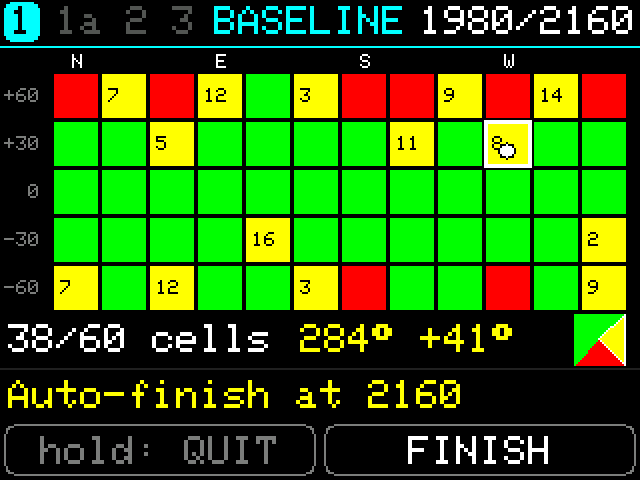
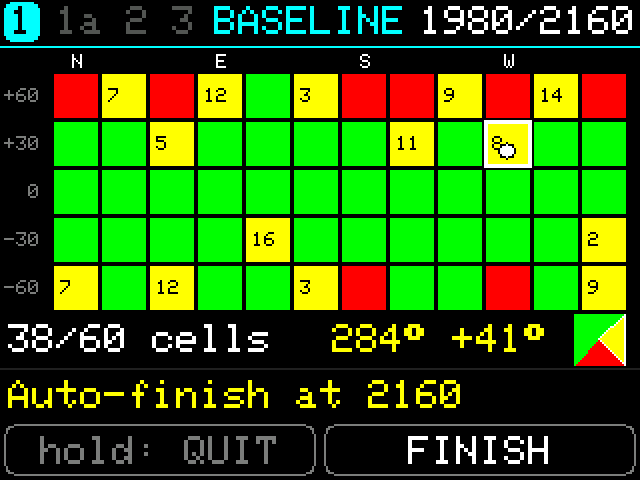
Cal screen mock: match the build (readout x, Finishing, Installed mounted, Can't start, Not installed)

Changed region(s): [[0.4688, 0.6562, 0.8438, 0.75]]

diff --git a/tools/cal_screen_mock/cal-screens.html b/tools/cal_screen_mock/cal-screens.html
@@ -541,7 +541,7 @@ const SCREENS = {
     grid5(t, ["RYRYGYRRYRYR", "GGYGGGGYGYGG", "GGGGGGGGGGGG", "GGGGYGGGGGGY", "YGYGGYRGGRGY"],
           [1, 9], 284, 41, [7, 12, 3, 9, 14, 5, 11, 8, 16, 2]);
     t.text(4, 162, "38/60 cells", 2, C.WHITE);
-    t.text(150, 162, "284° +41°", 2, C.YELLOW);
+    t.text(166, 162, "284° +41°", 2, C.YELLOW);
     rollWidget(t, 287, 157, 26, [C.GREEN, C.YELLOW, C.RED, C.GREEN], 1);
     frameEnd(t, [["Auto-finish at 2160", C.YELLOW]], QUIT, FINISH, f);
   } },
@@ -551,7 +551,7 @@ const SCREENS = {
     grid5(t, ["..G..Y...R..", ".G..G...G...", "....G...Y...", "..G...G..G..", ".R.Y..G....."],
           [2, 8], 255, -8, [11, 6, 4]);
     t.text(4, 162, "5 cells left", 2, C.WHITE);
-    t.text(160, 162, "255° -8°", 2, C.YELLOW);
+    t.text(166, 162, "255° -8°", 2, C.YELLOW);
     rollWidget(t, 287, 157, 26, [C.GREEN, C.RED, C.RED, C.YELLOW], 0);
     frameEnd(t, [["Fill red & yellow cells", C.YELLOW]], QUIT, FINISH, f);
   } },
@@ -646,6 +646,26 @@ const SCREENS = {
     frameEnd(t, [["Next: ", C.GRAY], ["sync at tern.local", C.WHITE]], BLANK, OK);
   } },
 
+  mountedFinishing: { stage: "2", draw(t) {
+    header(t, "2", "16/36");
+    grid3(t, ["GGRGRRGRGRRR", "GGGGRGGRGGGR", "RRGRRRGRRRRR"], [1, 4], true, 130, 1);
+    horizon(t, 4, 100, 80, 1, -2, 10, 2, true);
+    t.text(92, 102, "MOTION", 2, C.GRAY);
+    bar(t, 170, 101, 146, 18, 0, C.RED, "still", C.GREEN);
+    t.text(92, 126, "HOLD", 2, C.GRAY);
+    bar(t, 170, 125, 146, 18, 0, C.CYAN);
+    t.text(92, 152, "130° P+01 R-02", 2, C.WHITE);
+    frameEnd(t, [["Finishing...", C.GREEN]],
+             { label: "hold: QUIT", style: "dim" }, { label: "FINISH", style: "dim" });
+  } },
+
+  installedMount: { stage: "2", draw(t) {
+    header(t, "2", "SAVED");
+    t.text(8, 44, "Installed", 3, C.GREEN);
+    t.text(8, 84, "Mounted cal is on.", 2, C.WHITE);
+    frameEnd(t, [["Next: ", C.GRAY], ["3 HEADING", C.WHITE]], BLANK, OK);
+  } },
+
   installedHdg: { stage: "3", draw(t) {
     header(t, "3", "SAVED");
     t.text(8, 44, "Installed", 3, C.GREEN);
@@ -667,6 +687,23 @@ const SCREENS = {
     t.text(8, 84, "Samples are saved", 2, C.WHITE);
     t.text(8, 104, "on the unit.", 2, C.WHITE);
     frameEnd(t, [["Next: ", C.GRAY], ["upload at tern.local", C.WHITE]], BLANK, OK);
+  } },
+
+  cantStart: { stage: "1a", draw(t) {
+    header(t, "1a", "FAILED");
+    t.text(8, 44, "Can't start", 3, C.RED);
+    t.text(8, 84, "No target map -- run", 2, C.GRAY);
+    t.text(8, 104, "Check for updates on", 2, C.GRAY);
+    t.text(8, 124, "tern.local (WiFi).", 2, C.GRAY);
+    frameEnd(t, [["Nothing was collected", C.GRAY]], BLANK, OK);
+  } },
+
+  notInstalled: { stage: "1", draw(t) {
+    header(t, "1", "FAILED");
+    t.text(8, 44, "Not installed", 3, C.RED);
+    t.text(8, 84, "Nothing pending to", 2, C.GRAY);
+    t.text(8, 104, "install", 2, C.GRAY);
+    frameEnd(t, [["Your old cal stays on", C.GRAY]], BLANK, OK);
   } },
 
   failed: { stage: "2", draw(t) {

diff --git a/tools/cal_screen_mock/screens.js b/tools/cal_screen_mock/screens.js
@@ -286,7 +286,7 @@ const SCREENS = {
     grid5(t, ["RYRYGYRRYRYR", "GGYGGGGYGYGG", "GGGGGGGGGGGG", "GGGGYGGGGGGY", "YGYGGYRGGRGY"],
           [1, 9], 284, 41, [7, 12, 3, 9, 14, 5, 11, 8, 16, 2]);
     t.text(4, 162, "38/60 cells", 2, C.WHITE);
-    t.text(150, 162, "284° +41°", 2, C.YELLOW);
+    t.text(166, 162, "284° +41°", 2, C.YELLOW);
     rollWidget(t, 287, 157, 26, [C.GREEN, C.YELLOW, C.RED, C.GREEN], 1);
     frameEnd(t, [["Auto-finish at 2160", C.YELLOW]], QUIT, FINISH, f);
   } },
@@ -296,7 +296,7 @@ const SCREENS = {
     grid5(t, ["..G..Y...R..", ".G..G...G...", "....G...Y...", "..G...G..G..", ".R.Y..G....."],
           [2, 8], 255, -8, [11, 6, 4]);
     t.text(4, 162, "5 cells left", 2, C.WHITE);
-    t.text(160, 162, "255° -8°", 2, C.YELLOW);
+    t.text(166, 162, "255° -8°", 2, C.YELLOW);
     rollWidget(t, 287, 157, 26, [C.GREEN, C.RED, C.RED, C.YELLOW], 0);
     frameEnd(t, [["Fill red & yellow cells", C.YELLOW]], QUIT, FINISH, f);
   } },
@@ -391,6 +391,26 @@ const SCREENS = {
     frameEnd(t, [["Next: ", C.GRAY], ["sync at tern.local", C.WHITE]], BLANK, OK);
   } },
 
+  mountedFinishing: { stage: "2", draw(t) {
+    header(t, "2", "16/36");
+    grid3(t, ["GGRGRRGRGRRR", "GGGGRGGRGGGR", "RRGRRRGRRRRR"], [1, 4], true, 130, 1);
+    horizon(t, 4, 100, 80, 1, -2, 10, 2, true);
+    t.text(92, 102, "MOTION", 2, C.GRAY);
+    bar(t, 170, 101, 146, 18, 0, C.RED, "still", C.GREEN);
+    t.text(92, 126, "HOLD", 2, C.GRAY);
+    bar(t, 170, 125, 146, 18, 0, C.CYAN);
+    t.text(92, 152, "130° P+01 R-02", 2, C.WHITE);
+    frameEnd(t, [["Finishing...", C.GREEN]],
+             { label: "hold: QUIT", style: "dim" }, { label: "FINISH", style: "dim" });
+  } },
+
+  installedMount: { stage: "2", draw(t) {
+    header(t, "2", "SAVED");
+    t.text(8, 44, "Installed", 3, C.GREEN);
+    t.text(8, 84, "Mounted cal is on.", 2, C.WHITE);
+    frameEnd(t, [["Next: ", C.GRAY], ["3 HEADING", C.WHITE]], BLANK, OK);
+  } },
+
   installedHdg: { stage: "3", draw(t) {
     header(t, "3", "SAVED");
     t.text(8, 44, "Installed", 3, C.GREEN);
@@ -412,6 +432,23 @@ const SCREENS = {
     t.text(8, 84, "Samples are saved", 2, C.WHITE);
     t.text(8, 104, "on the unit.", 2, C.WHITE);
     frameEnd(t, [["Next: ", C.GRAY], ["upload at tern.local", C.WHITE]], BLANK, OK);
+  } },
+
+  cantStart: { stage: "1a", draw(t) {
+    header(t, "1a", "FAILED");
+    t.text(8, 44, "Can't start", 3, C.RED);
+    t.text(8, 84, "No target map -- run", 2, C.GRAY);
+    t.text(8, 104, "Check for updates on", 2, C.GRAY);
+    t.text(8, 124, "tern.local (WiFi).", 2, C.GRAY);
+    frameEnd(t, [["Nothing was collected", C.GRAY]], BLANK, OK);
+  } },
+
+  notInstalled: { stage: "1", draw(t) {
+    header(t, "1", "FAILED");
+    t.text(8, 44, "Not installed", 3, C.RED);
+    t.text(8, 84, "Nothing pending to", 2, C.GRAY);
+    t.text(8, 104, "install", 2, C.GRAY);
+    frameEnd(t, [["Your old cal stays on", C.GRAY]], BLANK, OK);
   } },
 
   failed: { stage: "2", draw(t) {
